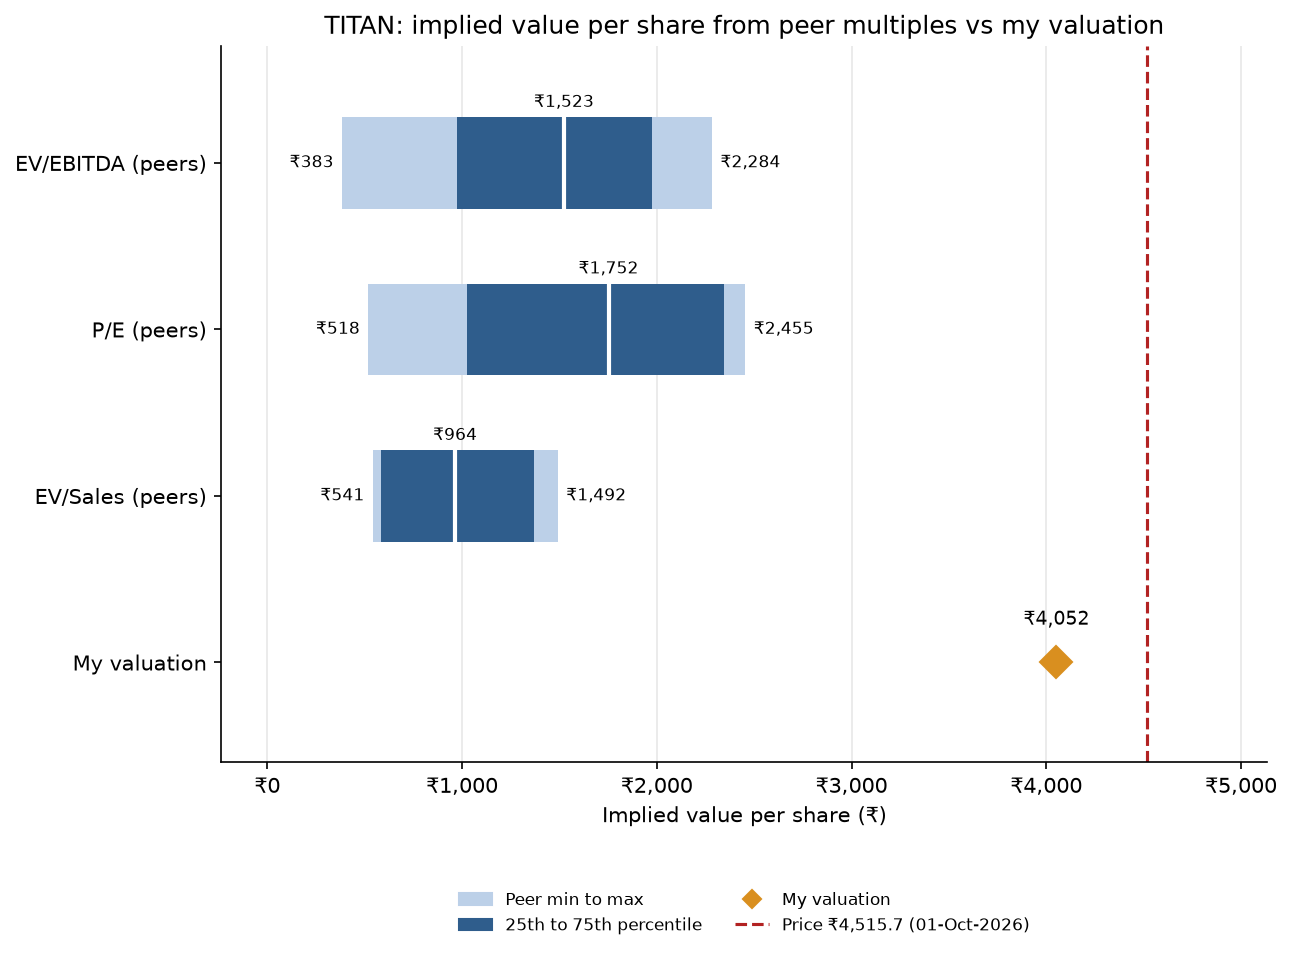
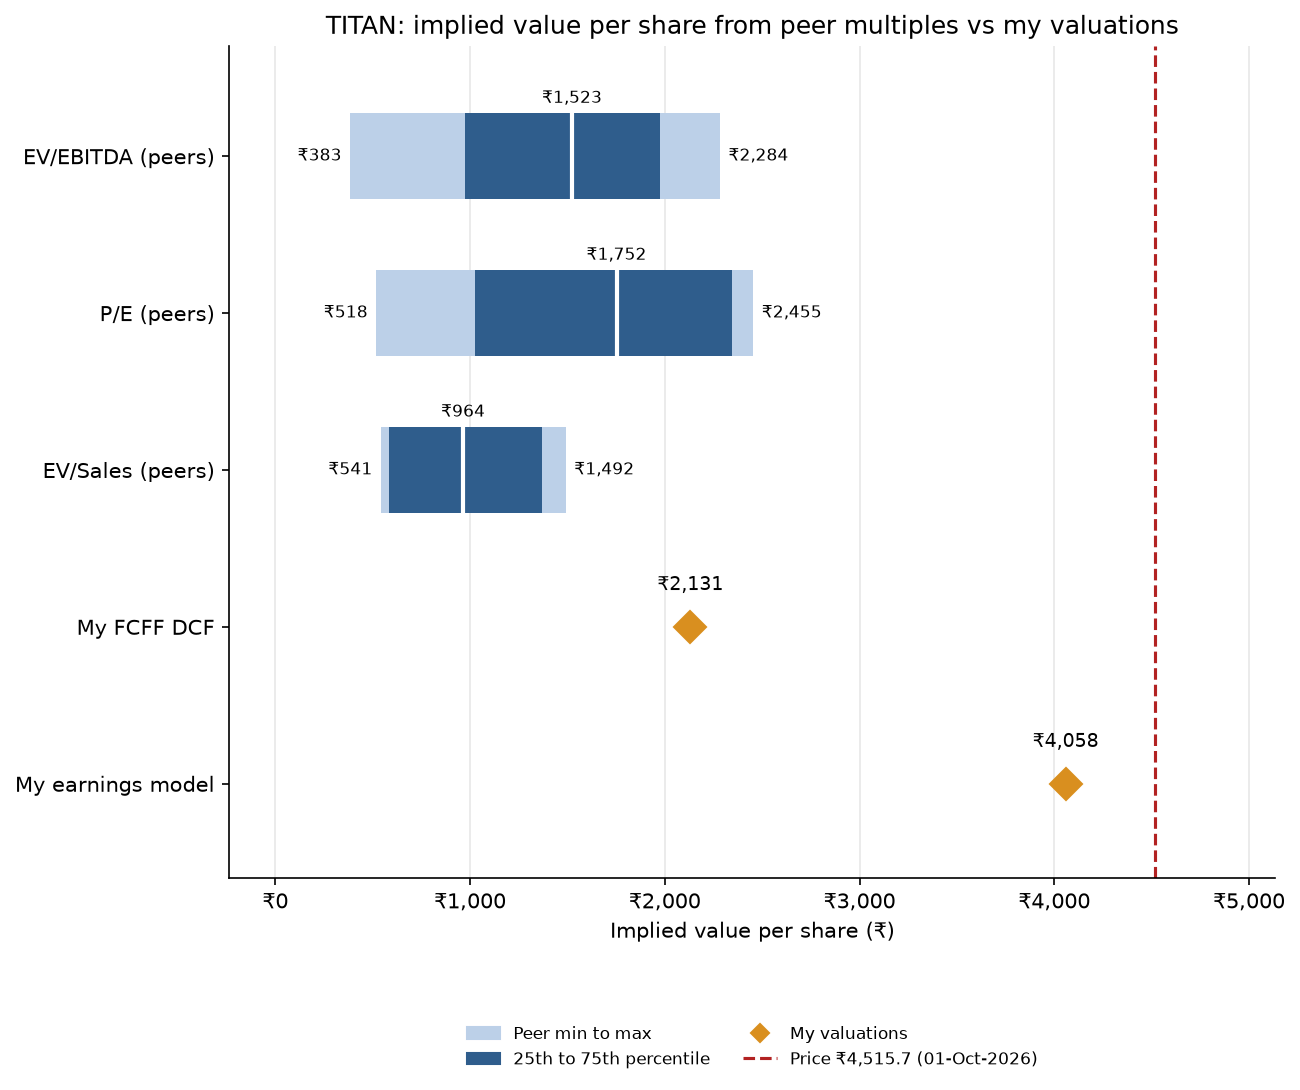
Show both Titan valuations (FCFF DCF Rs 2,131, earnings model Rs 4,058) on the football field
--valuation now takes LABEL=RUPEES and can be repeated; defaults live in
config.OWN_VALUATIONS. Docs moved to the shared 1-Oct-2026 price date.

diff --git a/comps/__main__.py b/comps/__main__.py
@@ -1,4 +1,4 @@
-"""Command line: python -m comps --target TITAN --price-source screener|bhavcopy [--bhavcopy PATH] [--valuation 4052]."""
+"""Command line: python -m comps --target TITAN --price-source screener|bhavcopy [--bhavcopy PATH] [--valuation "My FCFF DCF=2131"]."""
 from __future__ import annotations
 
 import argparse
@@ -19,6 +19,17 @@ def _symbols(text: str) -> list[str]:
     return [part.strip().upper() for part in text.split(",") if part.strip()]
 
 
+def _parse_valuations(items: list[str] | None) -> dict[str, float]:
+    """'LABEL=RUPEES' strings (or bare numbers) to {label: value}; None gives the config defaults."""
+    if not items:
+        return dict(config.OWN_VALUATIONS)
+    out = {}
+    for item in items:
+        label, _, value = item.rpartition("=")
+        out[label.strip() or "My valuation"] = float(value)
+    return out
+
+
 def parse_args(argv: list[str] | None = None) -> argparse.Namespace:
     parser = argparse.ArgumentParser(prog="python -m comps", description="Trading comps from Screener workbooks.")
     parser.add_argument("--target", default=config.TARGET, help="symbol to value (default %(default)s)")
@@ -30,8 +41,9 @@ def parse_args(argv: list[str] | None = None) -> argparse.Namespace:
     parser.add_argument("--price-source", choices=("screener", "bhavcopy"), default="screener")
     parser.add_argument("--bhavcopy", help="NSE capital-market bhavcopy (.csv or .zip); needed for --price-source bhavcopy")
     parser.add_argument("--basis", choices=("fy", "ltm"), default="fy", help="multiples on latest fiscal year or LTM")
-    parser.add_argument("--valuation", "--dcf", dest="valuation", type=float, default=config.OWN_VALUATION,
-                        help="my own Titan valuation per share (discounted earnings, exit P/E), rupees")
+    parser.add_argument("--valuation", "--dcf", dest="valuations", action="append", metavar="LABEL=RUPEES",
+                        help="my own Titan valuation per share, e.g. 'My FCFF DCF=2131'; repeat for several "
+                             "(a bare number is labelled 'My valuation'); default: config.OWN_VALUATIONS")
     parser.add_argument("--ref-price", type=float, default=config.REFERENCE_PRICE,
                         help="override the reference share price, rupees (the vertical line); "
                              "default: the target's price from the data")
@@ -43,6 +55,10 @@ def parse_args(argv: list[str] | None = None) -> argparse.Namespace:
     args = parser.parse_args(argv)
     if args.price_source == "bhavcopy" and not args.bhavcopy:
         parser.error("--price-source bhavcopy needs --bhavcopy PATH")
+    try:
+        args.valuations = _parse_valuations(args.valuations)
+    except ValueError:
+        parser.error("--valuation takes LABEL=RUPEES or a number")
     return args
 
 
@@ -105,7 +121,7 @@ def main(argv: list[str] | None = None) -> int:
 
     target_metrics = metrics[target]
     stats = peer_multiple_stats(stat_peers, args.basis)
-    ranges = implied_ranges(target_metrics, stats, args.basis) + [point_range("My valuation", args.valuation)]
+    ranges = implied_ranges(target_metrics, stats, args.basis) + [point_range(label, value) for label, value in args.valuations.items()]
 
     if bhavcopy_frame is not None:
         as_of = trade_date(bhavcopy_frame) or "unknown date"
@@ -127,7 +143,7 @@ def main(argv: list[str] | None = None) -> int:
         ("Reference peers in statistics", "yes" if args.include_reference else "no"),
         ("Skipped (could not load)", ", ".join(skipped) or "none"),
         ("Multiple basis", "LTM" if args.basis == "ltm" else "latest fiscal year"),
-        ("Price source", price_note), ("Prices as of", as_of), ("My valuation per share (₹)", args.valuation),
+        ("Price source", price_note), ("Prices as of", as_of), ("My valuations per share (₹)", "; ".join(f"{k}: {v:,.0f}" for k, v in args.valuations.items())),
         ("Reference price (₹)", ref_price), ("Reference price date", ref_date),
         ("Screener basis", ", ".join(f"{s}: {config.BASIS.get(s, 'unknown')}" for s in metrics)),
     ]

diff --git a/comps/charts.py b/comps/charts.py
@@ -22,7 +22,7 @@ def football_field(ranges: Sequence[ImpliedRange], reference_price: float, refer
     """Draw one horizontal bar per range and a vertical line at the reference price; save a PNG.
 
     Light bar = min to max across peers, dark bar = 25th to 75th percentile, white tick = median.
-    A zero-width range (my own valuation) is drawn as a diamond. Returns the path written.
+    A zero-width range (one of my own valuations) is drawn as a diamond. Returns the path written.
     """
     if not ranges:
         raise ValueError("no ranges to plot")
@@ -57,12 +57,12 @@ def football_field(ranges: Sequence[ImpliedRange], reference_price: float, refer
     ax.set_ylim(-0.6, len(ranges) - 0.3)
     ax.xaxis.set_major_formatter(FuncFormatter(lambda v, _: f"₹{v:,.0f}"))
     ax.set_xlabel("Implied value per share (₹)")
-    ax.set_title(f"{target}: implied value per share from peer multiples vs my valuation")
+    ax.set_title(f"{target}: implied value per share from peer multiples vs my valuations")
     ax.grid(axis="x", alpha=0.3, zorder=0)
     for side in ("top", "right"):
         ax.spines[side].set_visible(False)
     ax.legend(handles=[Patch(color=LIGHT, label="Peer min to max"), Patch(color=DARK, label="25th to 75th percentile"),
-                       Line2D([], [], color=OWN, marker="D", linestyle="", label="My valuation"),
+                       Line2D([], [], color=OWN, marker="D", linestyle="", label="My valuations"),
                        Line2D([], [], color=LINE, linestyle="--", label=f"Price ₹{reference_price:,.1f} ({reference_date})")],
               loc="upper center", bbox_to_anchor=(0.5, -0.16), ncol=2, fontsize=8, frameon=False)
     fig.savefig(path, dpi=150, bbox_inches="tight")

diff --git a/tests/test_cli.py b/tests/test_cli.py
@@ -56,6 +56,18 @@ class CommandLine(TempDirCase):
         price = next(row for row in rows if row[0] and str(row[0]).startswith("Reference price"))
         self.assertEqual(price[3], 4900)
 
+    def test_several_labelled_valuations_each_get_a_row(self):
+        self.run_main("--valuation", "My FCFF DCF=2131", "--valuation", "My earnings model=4058")
+        rows = {row[0]: row[3] for row in self.sheet_rows("Implied values") if row[0]}
+        self.assertEqual(rows["My FCFF DCF"], 2131)
+        self.assertEqual(rows["My earnings model"], 4058)
+
+    def test_default_valuations_come_from_config(self):
+        from comps import config
+        self.run_main()
+        labels = {row[0] for row in self.sheet_rows("Implied values") if row[0]}
+        self.assertTrue(set(config.OWN_VALUATIONS) <= labels)
+
     def test_reference_price_defaults_to_the_target_price_in_the_data_with_an_as_of_date(self):
         code, out, _ = self.run_main("--as-of", "01-Oct-2026")
         self.assertEqual(code, 0)

diff --git a/comps/config.py b/comps/config.py
@@ -24,7 +24,11 @@ BASIS = {
     "TRENT": "consolidated",
 }
 
-OWN_VALUATION = 4052.0      # my Titan valuation (discounted earnings, exit P/E), rupees per share
+# My own Titan valuations (titan-valuation repo, 1-Oct-2026 price), rupees per share; each is a diamond on the chart.
+OWN_VALUATIONS = {
+    "My FCFF DCF": 2131.0,               # free cash flow to the firm, WACC, Gordon terminal value
+    "My earnings model": 4058.0,         # discounted earnings, 26.5x exit P/E
+}
 # Reference price (the vertical line in the chart). By default it is read from the data: the target's price
 # (Screener "Current Price", or the bhavcopy close). Set REFERENCE_PRICE / REFERENCE_DATE to override, or pass
 # --ref-price / --ref-date on the command line.

diff --git a/README.md b/README.md
@@ -2,11 +2,11 @@
 
 [![tests](https://github.com/Dakshcore/jewellery-peer-comps/actions/workflows/tests.yml/badge.svg)](https://github.com/Dakshcore/jewellery-peer-comps/actions/workflows/tests.yml)
 
-A trading-comps tool for Titan Company and its listed Indian jewellery peers. It reads financials from Screener.in Excel exports and prices from NSE's bhavcopy (or from Screener), computes EV/EBITDA, P/E and EV/Sales for each company, and turns the peer range into an implied value per share for Titan, drawn as a football-field chart next to my own Titan valuation.
+A trading-comps tool for Titan Company and its listed Indian jewellery peers. It reads financials from Screener.in Excel exports and prices from NSE's bhavcopy (or from Screener), computes EV/EBITDA, P/E and EV/Sales for each company, and turns the peer range into an implied value per share for Titan, drawn as a football-field chart next to my own two Titan valuations.
 
 ## Why comps, when I already have a valuation
 
-My Titan valuation ([titan-valuation](https://github.com/Dakshcore/titan-valuation), a discounted-earnings model with an exit P/E) values the stock at ₹4,052 a share, against a price of ₹4,515.7 on 1 Oct 2026. That model says what the business is worth if my forecasts are right. Comps say what the market is paying today for similar businesses. They fail in different ways: a forecast-based model is only as good as its growth and margin assumptions, while comps inherit whatever mood the market is in. Putting both on one chart shows whether the gap between ₹4,052 and ₹4,515.7 is my forecasts being cautious or Titan simply trading at a premium to its peers.
+My Titan valuations ([titan-valuation](https://github.com/Dakshcore/titan-valuation)) value the stock at ₹2,131 a share with a free cash flow (FCFF) DCF and ₹4,058 with a discounted-earnings model, against a price of ₹4,515.7 on 1 Oct 2026. Those models say what the business is worth if my forecasts are right. Comps say what the market is paying today for similar businesses. They fail in different ways: a forecast-based model is only as good as its growth and margin assumptions, while comps inherit whatever mood the market is in. Putting both on one chart shows whether the gap between my values and ₹4,515.7 is my forecasts being cautious or Titan simply trading at a premium to its peers.
 
 ## Results
 
@@ -36,10 +36,11 @@ Titan's implied value per share, applying those peer multiples to Titan's own nu
 | EV/EBITDA | ₹974 | ₹1,523 | ₹1,977 | ₹383 to ₹2,284 |
 | P/E | ₹1,025 | ₹1,752 | ₹2,346 | ₹518 to ₹2,455 |
 | EV/Sales | ₹585 | ₹964 | ₹1,369 | ₹541 to ₹1,492 |
-| My valuation | | ₹4,052 | | |
+| My FCFF DCF | | ₹2,131 | | |
+| My earnings model | | ₹4,058 | | |
 | Price (1 Oct 2026) | | ₹4,515.7 | | |
 
-![Football field: Titan implied value per share from peer multiples, against my valuation and the share price](football_field.png)
+![Football field: Titan implied value per share from peer multiples, against my two valuations and the share price](football_field.png)
 
 On an LTM basis (`--basis ltm`, to Jun-26) the peer median EV/EBITDA is 18.8x, P/E 28.6x and EV/Sales 1.2x, and Titan's implied medians are ₹1,667, ₹1,857 and ₹920.
 
@@ -47,7 +48,7 @@ On an LTM basis (`--basis ltm`, to Jun-26) the peer median EV/EBITDA is 18.8x, P
 
 - Titan trades at 51.4x EV/EBITDA and 79.0x P/E, about 2.6x the core-peer medians (19.6x and 30.7x). Among the jewellers only Thangamayil (27.7x, 43.0x) and Kalyan (23.4x, 40.4x) come anywhere near it, and Senco (7.5x, 9.1x) is far below.
 - Titan's multiples sit closer to Trent's (37.3x EV/EBITDA, 80.0x P/E) than to the jewellers'. Trent has twice Titan's EBITDA margin (18.7% vs 9.5%) and about a quarter of its inventory days (42 vs 178).
-- All three peer-multiple methods imply values well below the market price (medians ₹964 to ₹1,752 against ₹4,515.7), so the market is paying a premium that these peers' multiples do not explain. My own valuation of ₹4,052 is about 10% under the price.
+- All three peer-multiple methods imply values well below the market price (medians ₹964 to ₹1,752 against ₹4,515.7), so the market is paying a premium that these peers' multiples do not explain. My FCFF DCF (₹2,131) lands just above the top of the peer ranges, which supports it; my earnings model (₹4,058) is about 10% under the price, and the gap between my two models is mostly the cash Titan reinvests in gold inventory and stores.
 - Profitability and returns do not separate Titan from the group: ROCE of 16.3% is inside the 15.1% to 22.5% peer range, and its EBITDA margin is above Kalyan, Thangamayil and P N Gadgil but below Senco. What does stand out is size (market cap about 4.8x the four core peers combined) and the highest EV/Sales (4.9x vs 0.9x to 1.8x).
 
 ### Caveats
@@ -85,7 +86,7 @@ python -m comps --target TITAN --price-source bhavcopy --bhavcopy data/raw/BhavC
 python -m unittest -v
 ```
 
-Other options: `--valuation 4052` (my valuation per share), `--ref-price 4515.7` and `--ref-date 1-Oct-2026` (the price line), `--basis ltm` (multiples on the last twelve months instead of the latest fiscal year), `--peers A,B,C`, `--reference TRENT`, `--include-reference` (put the reference peers into the medians), `--data-dir`, `--out-dir`. Outputs go to `outputs/`: `comps.xlsx` and `football_field.png`.
+Other options: `--valuation "My FCFF DCF=2131"` (my own valuation per share; repeat for several, defaults in `comps/config.py`), `--ref-price 4515.7` and `--ref-date 1-Oct-2026` (the price line), `--basis ltm` (multiples on the last twelve months instead of the latest fiscal year), `--peers A,B,C`, `--reference TRENT`, `--include-reference` (put the reference peers into the medians), `--data-dir`, `--out-dir`. Outputs go to `outputs/`: `comps.xlsx` and `football_field.png`.
 
 Written for Python 3.13 with NumPy, pandas, openpyxl and Matplotlib (see `requirements.txt`).
 
@@ -122,7 +123,7 @@ All six are listed on NSE with these symbols and have a March fiscal year-end. E
 - **Also computed:** revenue and EBITDA growth (1 year and 3-year CAGR), EBITDA and net margin, ROCE = EBIT / (Equity share capital + Reserves + Borrowings), ROE = Net profit / (Equity share capital + Reserves), and inventory days = Inventory / Sales × 365, which matters for jewellers because gold stock is most of their balance sheet.
 - **Peer tiers:** the core jewellers set the medians. Trent is shown separately and left out of the statistics unless `--include-reference` is passed.
 - **Peer statistics:** minimum, 25th percentile, median, 75th percentile and maximum, using linear interpolation.
-- **Implied value per share:** for an EV multiple, (multiple × Titan's metric − Titan's net debt) / shares. For P/E, multiple × Titan's net profit / shares. The chart shows the 25th to 75th percentile as a dark bar, the minimum to maximum as a light bar, my own valuation as a diamond and the reference price as a dashed line.
+- **Implied value per share:** for an EV multiple, (multiple × Titan's metric − Titan's net debt) / shares. For P/E, multiple × Titan's net profit / shares. The chart shows the 25th to 75th percentile as a dark bar, the minimum to maximum as a light bar, each of my own valuations as a diamond and the reference price as a dashed line.
 
 ## Limitations
 
@@ -136,7 +137,7 @@ All six are listed on NSE with these symbols and have a March fiscal year-end. E
 
 ## Tests
 
-`python -m unittest -v` runs 53 tests, all on synthetic data built in a temporary folder (no real data is committed):
+`python -m unittest -v` runs 55 tests, all on synthetic data built in a temporary folder (no real data is committed):
 
 - **Screener loader:** annual and quarterly series and META values, section-aware lookup of repeated labels, case/spacing/colon-insensitive labels, clear errors that name a missing row, section, sheet or file, optional rows, and share-count units.
 - **Bhavcopy:** series EQ only, whitespace and case, blank closes, missing columns, and reading `.csv` and `.zip` files.

diff --git a/docs/NOTE_TEMPLATE.md b/docs/NOTE_TEMPLATE.md
@@ -12,7 +12,7 @@ Subtitle line: Daksh Chaudhary, B.Sc. (Hons.) Computer Science, Keshav Mahavidya
 
 ## Summary (one paragraph)
 
-[Two to four sentences. What was done: comps for Titan against four jewellery peers, Trent shown separately. What came out: the range of Titan value per share implied by [which multiples], and where my DCF of Rs 4,052 sits against that range and against the market close of Rs [price] on [date]. One honest caveat.]
+[Two to four sentences. What was done: comps for Titan against four jewellery peers, Trent shown separately. What came out: the range of Titan value per share implied by [which multiples], and where my FCFF DCF (Rs 2,131) and earnings model (Rs 4,058) sit against that range and against the market close of Rs [price] on [date]. One honest caveat.]
 
 ## Peer selection
 
@@ -41,7 +41,7 @@ Table notes: [LTM date, pricing date, units, n/m rules.]
 
 ## Football field
 
-[Insert chart. Bars: implied Titan value per share from EV/EBITDA, P/E, EV/Sales (low to high, median marked). Lines: DCF Rs 4,052 and market close Rs [price] on [date].]
+[Insert chart. Bars: implied Titan value per share from EV/EBITDA, P/E, EV/Sales (low to high, median marked). Diamonds: FCFF DCF Rs 2,131 and earnings model Rs 4,058. Line: market close Rs [price] on [date].]
 
 One-line caption: [what the chart shows in plain words.]
 

diff --git a/docs/DATA_GUIDE.md b/docs/DATA_GUIDE.md
@@ -78,7 +78,7 @@ Why: one official closing price per company on one date.
 Which date to use:
 
 - Main date: use one date for all six companies. Prefer the latest trading day when you run the comps.
-- DCF date: your DCF compares against the NSE close of 25 Sep 2026 (Rs 4,884 for Titan). Download 25 Sep 2026 too. Then you can show comps on the same date as the DCF. Download both days.
+- Valuation date: both Titan models (titan-valuation) now use the NSE close of 1 Oct 2026 (Rs 4,515.70), the same date as the comps, so one bhavcopy covers both.
 - Refresh date: after most peers report Q2 FY27, download a new bhavcopy and re-run.
 - If a date was a market holiday, there is no file. Use the previous trading day and say so.
 
